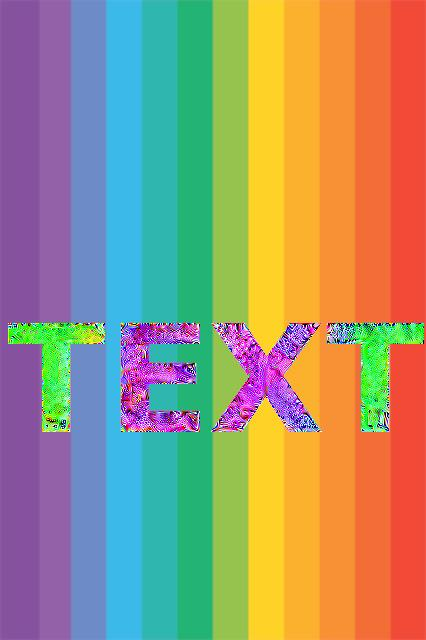
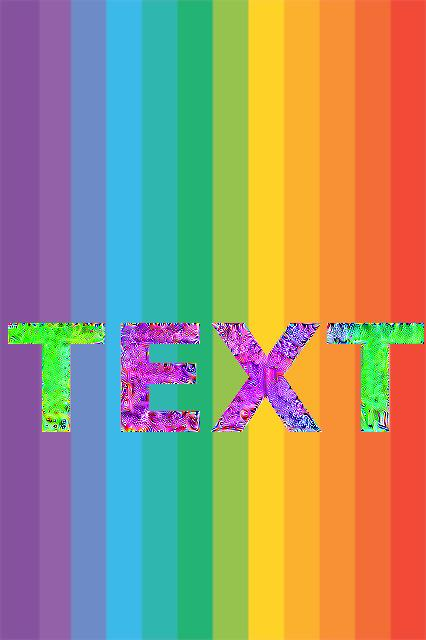
distance plot

Changed region(s): [[0.0, 0.5, 1.0, 0.6875]]

diff --git a/Assets/ConnectionTest/LabelColorGenerationTest.py b/Assets/ConnectionTest/LabelColorGenerationTest.py
@@ -562,17 +562,14 @@ if __name__ == '__main__':
          # Plot the losses
         
         iterations = np.linspace(0, MAX_ITER, MAX_ITER//100)
-        print(iterations.shape)
-        print(iterations)
-        print(len(losses))
-        print(losses)
         plt.plot(iterations, losses)
         plt.xlabel('Iteration')
-        plt.ylabel('Loss')
-        plt.title('Loss Curve')
+        plt.ylabel('Distance')
+        plt.title('Distance Curve')
 
         # Save the plot locally
         plt.savefig(f"./testResults/{date}/{image_name}_{args.metric}_itr{args.itr}_loss_plot.png")
+        print("Distance plot saved.")
 
         plt.show()
 
